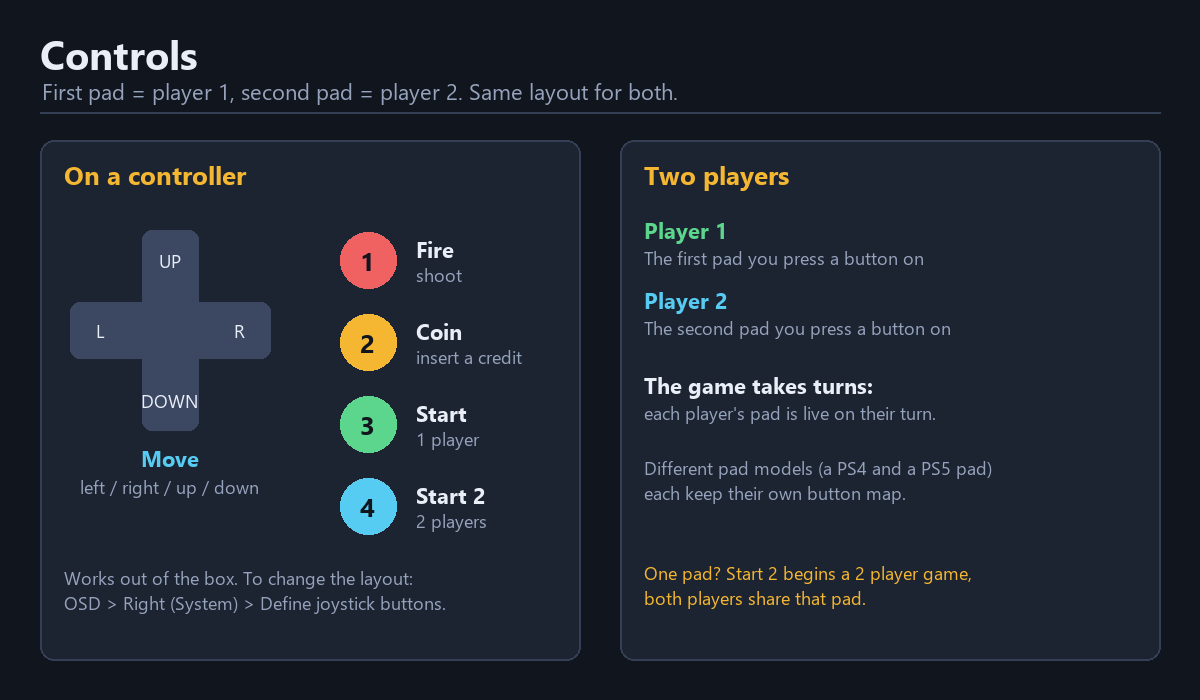
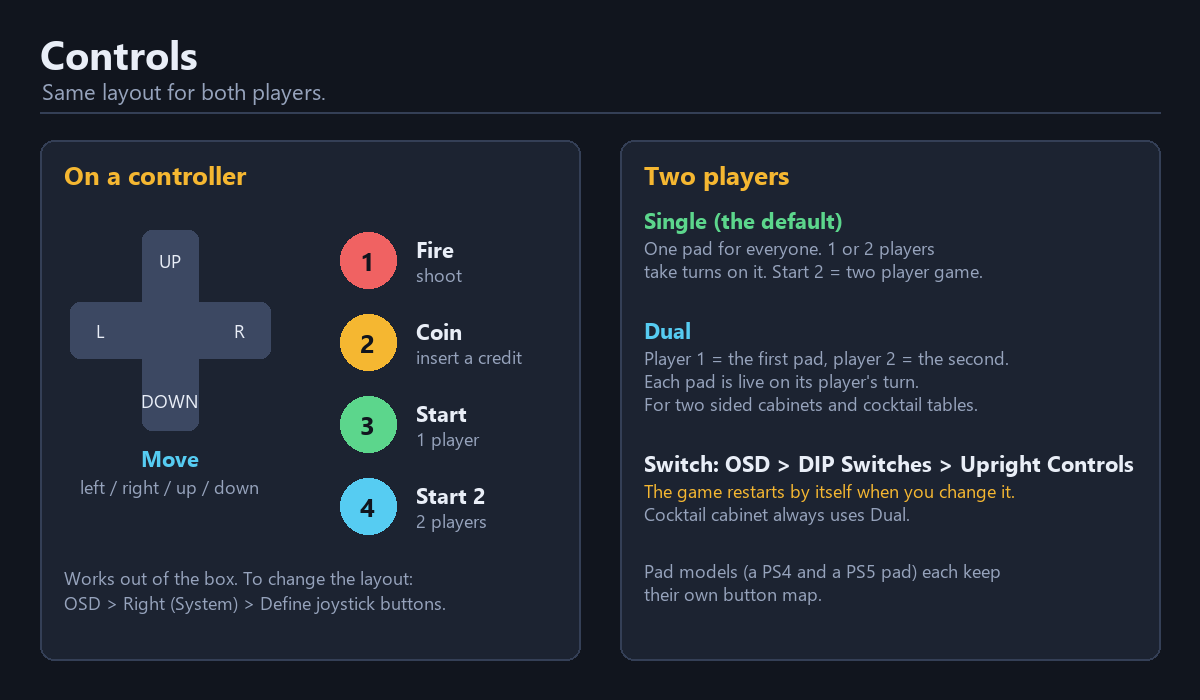
README: explain Single and Dual controls and the automatic restart; controls picture
Claude-Session: https://claude.ai/code/session_01Hrz2iDPUggMyFbbWbGJXNH

diff --git a/README.md b/README.md
@@ -63,8 +63,10 @@ No ROM data is included in this repository.
 
 | | | |
 |:-:|---|---|
-| <img src="docs/readme/icons/pads2.png" width="48"> | **Two players** | Player 1 uses the first controller, player 2 the second. The first pad you press a button on becomes player 1 and the next one player 2 (the MiSTer decides that). The controls work out of the box with each pad's default layout. To change it, use **Define joystick buttons** (OSD, press Right for the System menu) and press the buttons it asks for on that pad. Each controller **model** keeps its own map (a PS4 and a PS5 pad are two models), and two pads of the same model share one. The game takes turns, so each player's pad is live on that player's turn. The **Controller Setup** page in the OSD lists these steps |
-| <img src="docs/readme/icons/pad.png" width="48"> | **One pad** | **Start 2** begins a two player game, but both players then share that pad |
+| <img src="docs/readme/icons/pad.png" width="48"> | **Single controls (the default)** | One set of controls. One pad plays everything: with two players the game takes turns and you pass the pad. **Start 2** begins a two player game. The game only reads the first pad, so a second pad does nothing in this mode |
+| <img src="docs/readme/icons/pads2.png" width="48"> | **Dual controls** | Each player has their own controller: player 1 uses the first pad, player 2 the second. The game takes turns, so each pad is live on its player's turn. Use it for a cabinet with two sides, a cocktail table, or two pads on a couch |
+| <img src="docs/readme/icons/gear.png" width="48"> | **How to switch** | **OSD > DIP Switches > Upright Controls**, Single or Dual. The game reads that switch only at start up, as the real board does, so the core restarts the game by itself when you change it. You do not need to reset anything. **Cocktail** cabinet always counts as Dual, so Upright Controls is greyed out while it is selected |
+| <img src="docs/readme/icons/joy.png" width="48"> | **Which pad is which** | The first pad you press a button on becomes player 1 and the next one player 2 (the MiSTer decides that). The controls work out of the box with each pad's default layout. To change it, use **Define joystick buttons** (OSD, press Right for the System menu) and press the buttons it asks for on that pad. Each controller **model** keeps its own map (a PS4 and a PS5 pad are two models), and two pads of the same model share one. The **Controller Setup** page in the OSD lists these steps and follows the Single or Dual setting |
 
 ## The OSD at a glance
 
